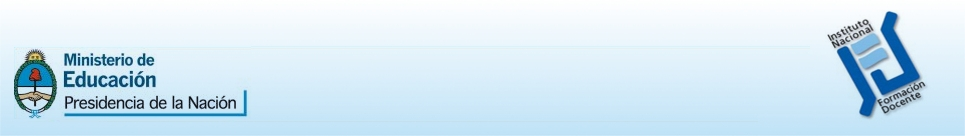
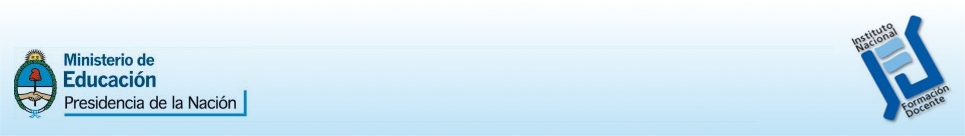
Más cambios en los estilos

Changed region(s): [[0.8394, 0.0882, 0.9948, 0.9118]]

diff --git a/meregistro/static/css/main.css b/meregistro/static/css/main.css
@@ -14,7 +14,9 @@
 =COMMON
 */
 body {
-	background: #CCEAFF;
+	background: #F5E2AD;
+	font-family: Arial, sans-serif;
+	font-size: 13px;
 }
 ul {
 	list-style: none;
@@ -23,16 +25,20 @@ ul {
 =WRAPPER
 */
 div#wrapper {
-	width: 964px;
+	width: 965px;
 	margin: 0 auto;
 	background: #fff;
+	border: 5px #fff solid;
+	border-bottom: none;
+	border-top: none;
 }
 /*
 =HEADER
 */
 div#header {
-	height: 83px;
-	background: url(../img/header-964x83.jpg) no-repeat;
+	height: 136px;
+	background: url(../img/header-965x136.jpg) no-repeat;
+	border-bottom: 3px #276399 solid;
 
 }
 div#header h1 span,
@@ -44,4 +50,16 @@ div#header h2 span {
 */
 div#content {
 	margin: 10px;
+}
+/*
+=FOOTER
+*/
+div#footer {
+	background: #276399;
+	font-size: 12px;
+	color:#fff;
+	text-align: center;
+	height: 40px;
+	padding-top: 10px;
+	border-bottom: 4px #fff solid;
 }

diff --git a/meregistro/templates/base.html b/meregistro/templates/base.html
@@ -16,6 +16,9 @@
 		<div id="content">
 {% block content %}{% endblock %}
 		</div> <!-- END content -->
+		<div id="footer">
+			<p>Ministerio de Educación - Presidencia de la Nación</p>
+		</div> <!-- END footer -->
 	</div> <!-- END wrapper -->
 </body>
 </html>

diff --git a/meregistro/templates/login/login.html b/meregistro/templates/login/login.html
@@ -5,6 +5,7 @@
 {% block content_title %}Login{% endblock %}
 
 {% block content %}
+<h2>Ingresar al sistema</h2>
 <form action="" method="post">{% csrf_token %}
     {{ form.non_field_errors }}
     <div class="form-text">
